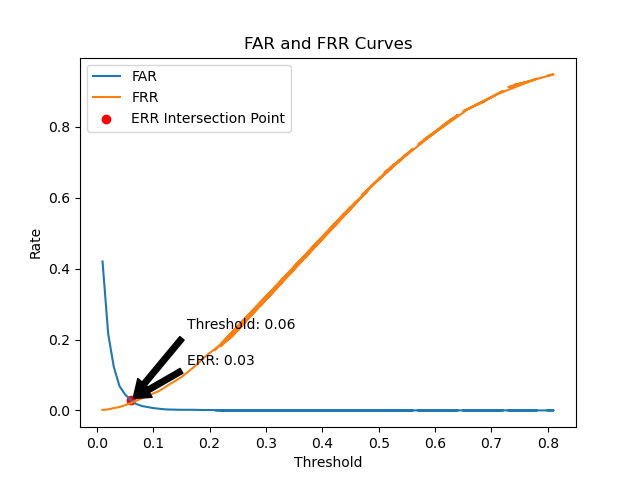
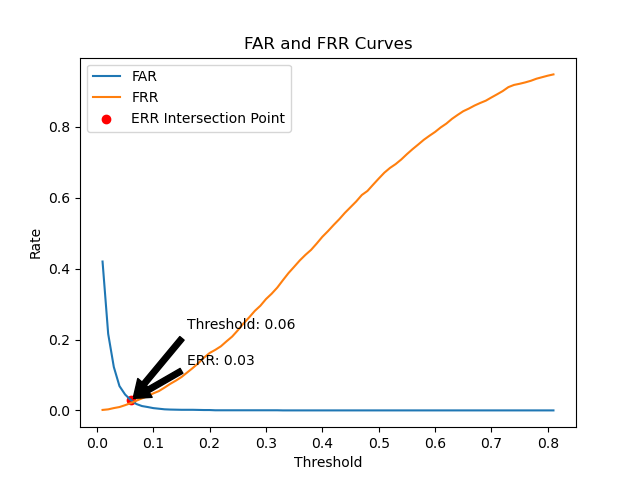
mod

diff --git a/LINUX/PCA/opened_set/src/accuracy.py b/LINUX/PCA/opened_set/src/accuracy.py
@@ -9,6 +9,7 @@ def get_accuracy(path_accessi,path_output):
     #apri file csv "risultat" e prendi colonna threshold
     threshold_values = pd.read_csv("./csv/risultati.csv")
     threshold_values = threshold_values['threshold'].tolist()
+    threshold_values = sorted(threshold_values)
     with open(path_output, 'w', newline='') as file:
         writer = csv.writer(file)
         writer.writerow(["threshold", "far", "frr", "acc", "tpr", "tnr", "ppv", "npv", "f1_score"])

diff --git a/LINUX/no_PCA/training_rinforzato/opened_set/src/accuracy.py b/LINUX/no_PCA/training_rinforzato/opened_set/src/accuracy.py
@@ -9,6 +9,7 @@ def get_accuracy(path_accessi,path_output):
     #apri file csv "risultat" e prendi colonna threshold
     threshold_values = pd.read_csv("./csv/risultati.csv")
     threshold_values = threshold_values['threshold'].tolist()
+    threshold_values = sorted(threshold_values)
     with open(path_output, 'w', newline='') as file:
         writer = csv.writer(file)
         writer.writerow(["threshold", "far", "frr", "acc", "tpr", "tnr", "ppv", "npv", "f1_score"])

diff --git a/LINUX/no_PCA/single_training/opened_set/src/accuracy.py b/LINUX/no_PCA/single_training/opened_set/src/accuracy.py
@@ -9,7 +9,7 @@ path = './file_csv/accessi.csv'
 path_result = "./file_csv/risultati.csv"
 
 df = pd.read_csv(path)
-threshold_values = svt.vector_thresold(path)
+threshold_values = sorted(svt.vector_thresold(path))
 
 with open(path_result, 'w', newline='') as file:
     writer = csv.writer(file)
